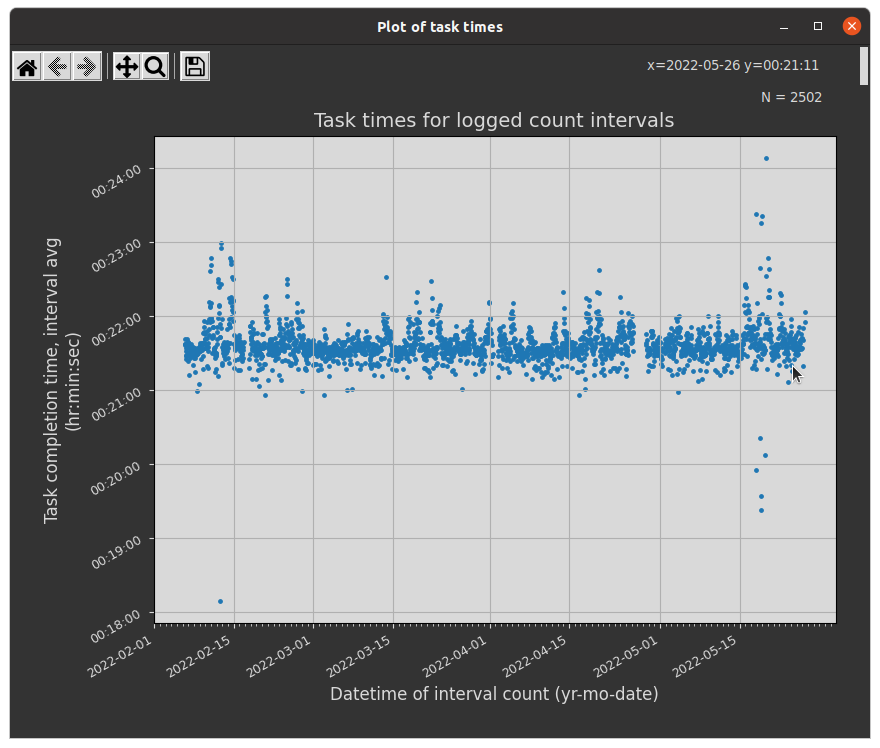
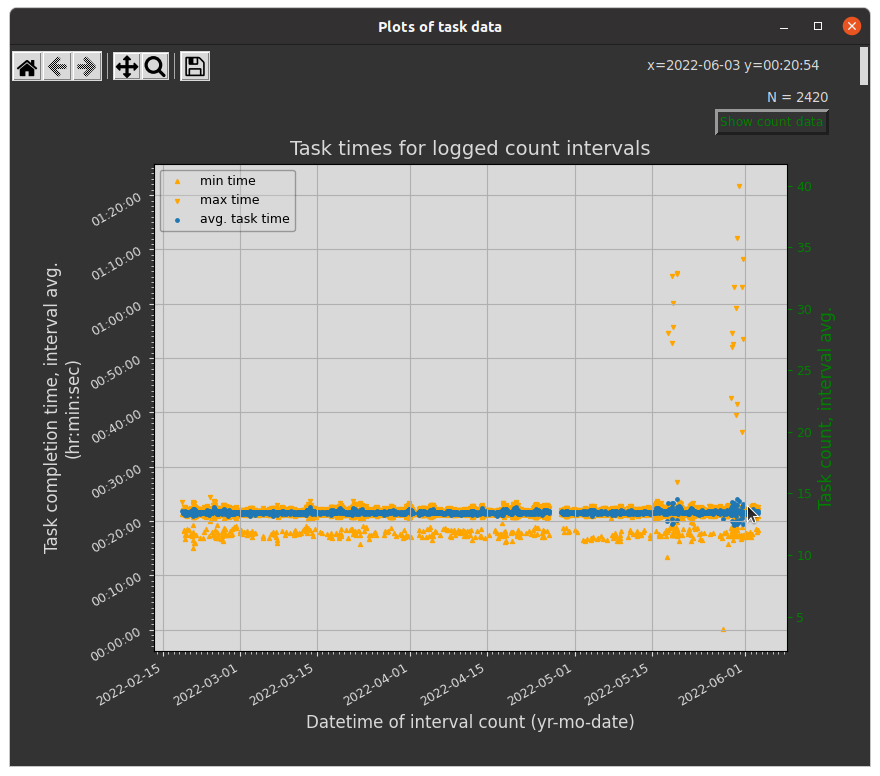
update README

diff --git a/README.html b/README.html
@@ -114,8 +114,14 @@ Download and run as described under Usage, but launch the program with these Ter
 
 <p><img src="images/gcount-tasks_scrnshot.png" alt="gcount-tasks main window"></p>
 <p><img src="images/gcount-tasks_analysis.png" alt="log analysis"></p>
-<p><img src="images/gcount-tasks_plot.png" alt="time plot"></p>
-
+<p>Iniitial plot of task time data in the log file.
+<img src="images/gcount-tasks_plot.png" alt="time-plot"></p>
+<p>Use of magnifier tool to zoom in on average task times.
+<img src="images/gcount-tasks_plot_Yzoom.png" alt="zoom-plot"></p>
+<p>Zoom in again for two weeks of task time data.
+<img src="images/gcount-tasks_plot_XYzoom.png" alt="zoom-plot"></p>
+<p>Initial view showing all logged task count data.
+<img src="images/gcount-tasks_plot_counts.png" alt="zoom-plot"></p>
 
 <h2 id="GcountTasks-standalones">Stand-alone versions: GcountTasks (no Python installation needed)</h2>
 <p>Note that these stand-alone programs will only run with the boinccmd binary in its default install location. If you launch a GcountTasks stand-alone and get an error message, you can still run gcount-tasks from the command line once you set up a valid boinccmd path in the countCFG.txt configuration file.</p>

diff --git a/README.md b/README.md
@@ -111,7 +111,18 @@ Added features in the GUI version:
 
 ![gcount-tasks main window](images/gcount-tasks_scrnshot.png)
 ![log-analysis](images/gcount-tasks_analysis.png)
+
+Iniitial plot of task time data in the log file.
 ![time-plot](images/gcount-tasks_plot.png)
+
+Use of magnifier tool to zoom in on average task times.
+![zoom-plot](images/gcount-tasks_plot_Yzoom.png)
+
+Zoom in again for two weeks of task time data.
+![zoom-plot](images/gcount-tasks_plot_XYzoom.png)
+
+Initial view showing all logged task count data.
+![zoom-plot](images/gcount-tasks_plot_counts.png)
 
 ### Stand-alone versions: GcountTasks (no Python installation needed)
 Note that these stand-alone programs will only run with the boinccmd binary in its default install location. If you launch a GcountTasks stand-alone and get an error message, you can still run gcount-tasks from the command line once you set up a valid boinccmd path in the countCFG.txt configuration file.
